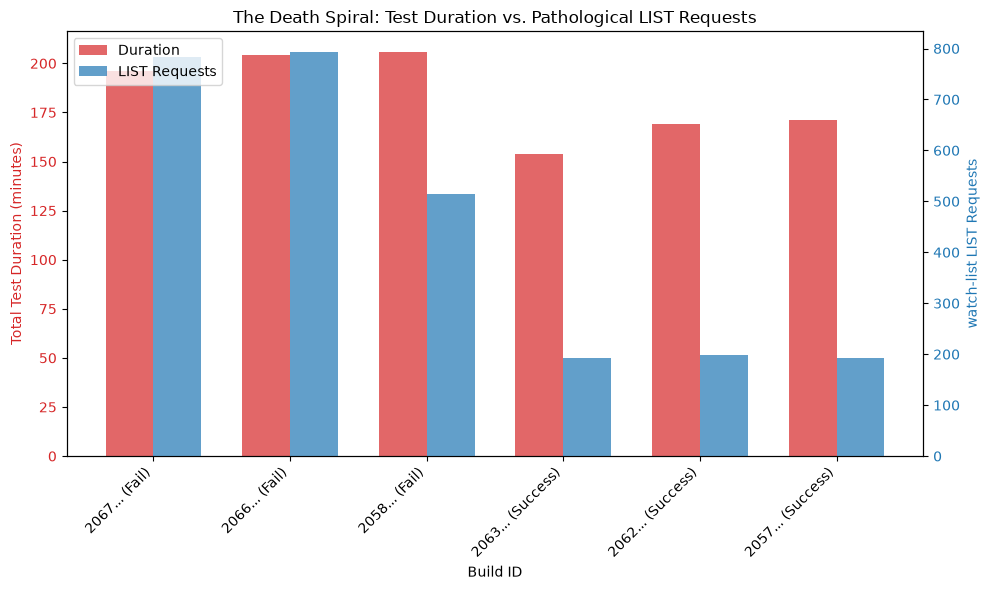
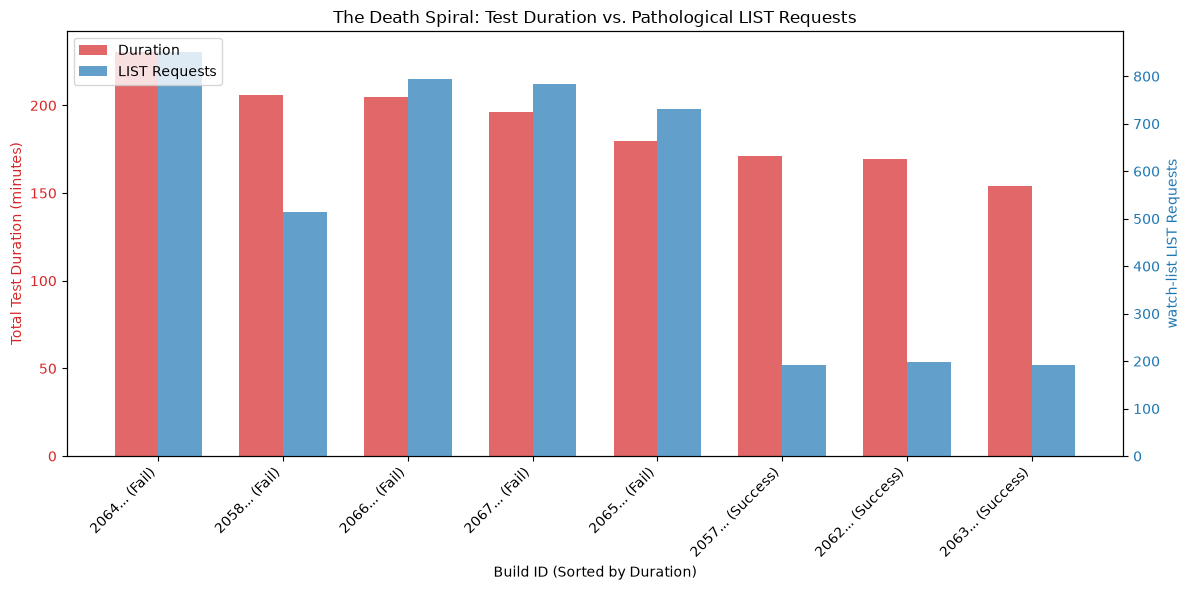
Verify watch-list Death Spiral against two additional historical failed runs

diff --git a/scripts/generate_graph.py b/scripts/generate_graph.py
@@ -2,17 +2,17 @@ import matplotlib.pyplot as plt
 import numpy as np
 
 # Data
-runs = ['2067... (Fail)', '2066... (Fail)', '2058... (Fail)', '2063... (Success)', '2062... (Success)', '2057... (Success)']
-durations = [196, 204, 206, 154, 169, 171]
-list_requests = [784, 794, 514, 192, 199, 192]
+runs = ['2064... (Fail)', '2058... (Fail)', '2066... (Fail)', '2067... (Fail)', '2065... (Fail)', '2057... (Success)', '2062... (Success)', '2063... (Success)']
+durations = [230.7, 206.2, 204.6, 196.0, 179.9, 171.1, 169.4, 154.2]
+list_requests = [852, 514, 794, 784, 732, 192, 199, 192]
 
 x = np.arange(len(runs))  # the label locations
 width = 0.35  # the width of the bars
 
-fig, ax1 = plt.subplots(figsize=(10, 6))
+fig, ax1 = plt.subplots(figsize=(12, 6))
 
 color = 'tab:red'
-ax1.set_xlabel('Build ID')
+ax1.set_xlabel('Build ID (Sorted by Duration)')
 ax1.set_ylabel('Total Test Duration (minutes)', color=color)
 rects1 = ax1.bar(x - width/2, durations, width, label='Duration', color=color, alpha=0.7)
 ax1.tick_params(axis='y', labelcolor=color)

diff --git a/triage-journals/2067291549904932864/journal.md b/triage-journals/2067291549904932864/journal.md
@@ -48,9 +48,11 @@ By applying the Principle of Exhaustive Falsification across three failed runs a
     *   2062942951578800128: 199 `watch-list` LIST requests
     *   2057507115173416960: 192 `watch-list` LIST requests
 *   **Failed Runs (Spamming LISTs):**
-    *   2067291549904932864: 784 `watch-list` LIST requests
-    *   2066566728590036992: 794 `watch-list` LIST requests
-    *   2058231898483724288: 514 `watch-list` LIST requests
+    *   2064392517519937536: 852 `watch-list` LIST requests (Duration: ~230m)
+    *   2067291549904932864: 784 `watch-list` LIST requests (Duration: ~196m)
+    *   2066566728590036992: 794 `watch-list` LIST requests (Duration: ~204m)
+    *   2065117162749562880: 732 `watch-list` LIST requests (Duration: ~180m)
+    *   2058231898483724288: 514 `watch-list` LIST requests (Duration: ~206m)
 
 ### 3. Red-Team Deep Dive: The Source Code Bug
 We audited the source code of this utility (`k8s.io/perf-tests/util-images/watch-list/main.go`) and found a catastrophic logical bug. The utility intends to start informers and keep them running. However, it uses `wait.PollUntilContextCancel` and intentionally returns `false, nil` after successfully syncing the cache. 